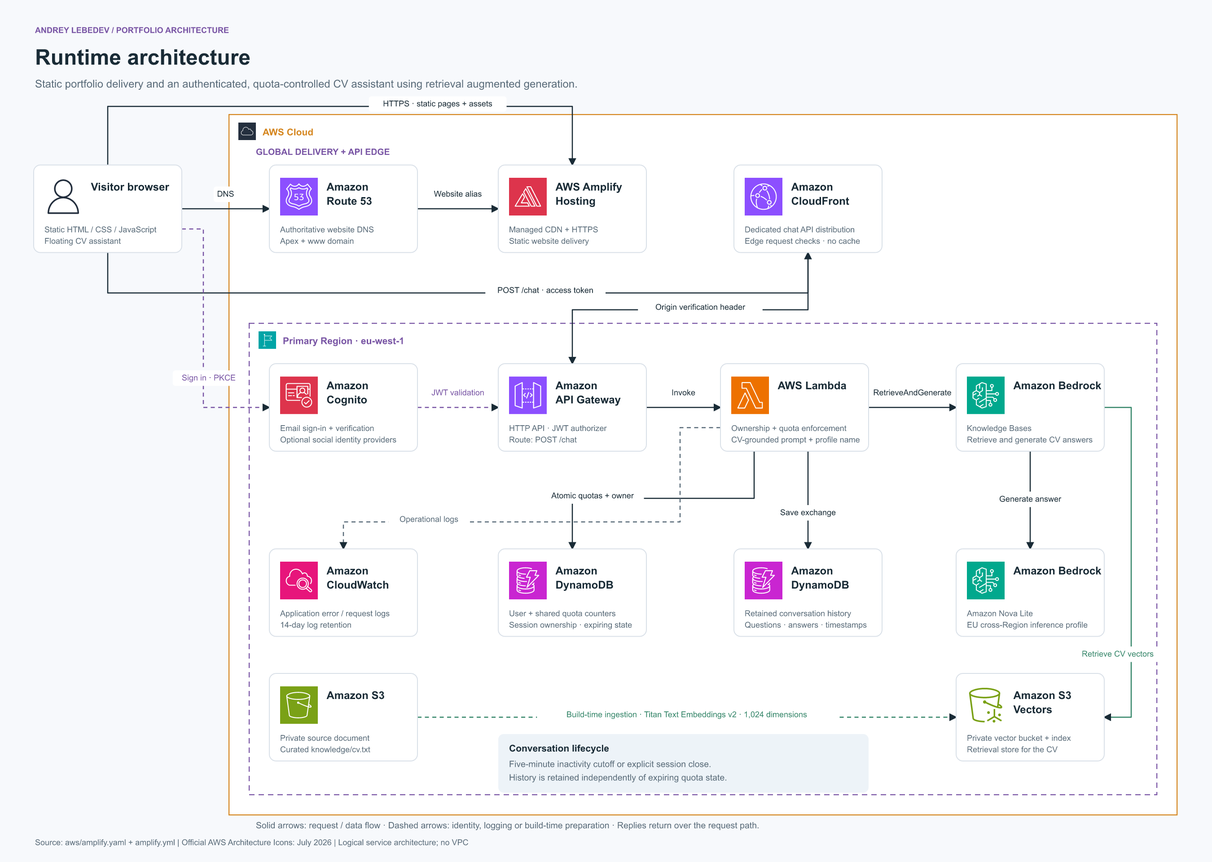
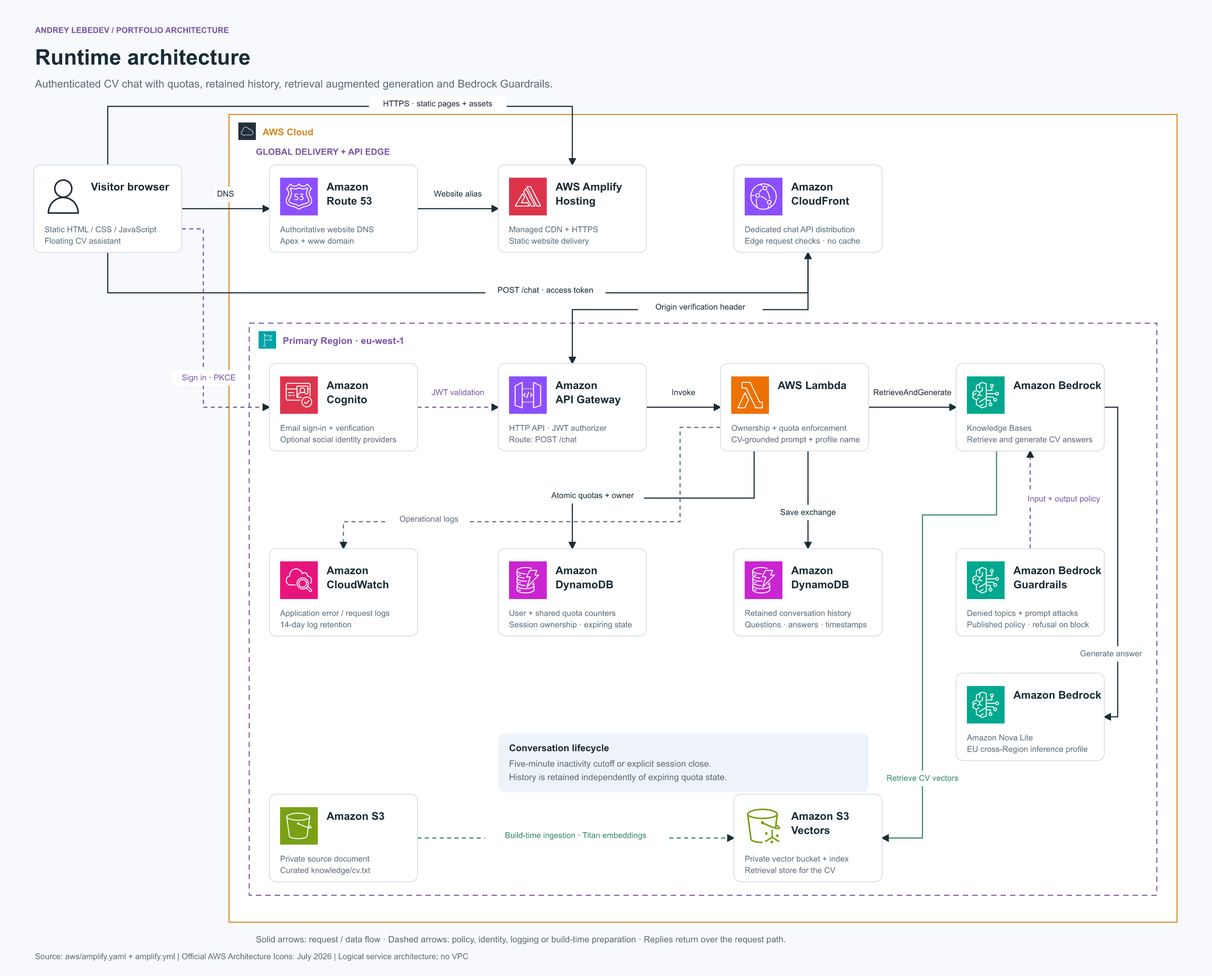
Add Bedrock Guardrails to constrain portfolio chat scope

diff --git a/behind-the-site.html b/behind-the-site.html
@@ -48,14 +48,14 @@
 <section class="page-section page-section-soft" id="runtime"><div class="wrap">
 <div class="split-head"><div><div class="eyebrow">02 / RUNTIME ARCHITECTURE</div><h2>From a visitor's question to a grounded answer.</h2></div><p>The static website and chat API have separate delivery paths. The application runs primarily in Ireland (eu-west-1); Nova Lite uses an EU cross-Region inference profile.</p></div>
 <figure class="architecture-figure">
-<a href="assets/architecture/runtime.svg" target="_blank" rel="noopener" aria-label="Open runtime architecture diagram at full size in a new tab"><img src="assets/architecture/runtime.svg" width="1800" height="1280" loading="lazy" alt="Runtime: Amplify serves the website; Cognito authenticates visitors. Chat requests pass through CloudFront, API Gateway and Lambda, which check DynamoDB quotas and session ownership. Bedrock retrieves CV evidence from S3 Vectors and generates a Nova Lite answer. Exchanges are stored in a separate DynamoDB history table."/></a>
+<a href="assets/architecture/runtime.svg" target="_blank" rel="noopener" aria-label="Open runtime architecture diagram at full size in a new tab"><img src="assets/architecture/runtime.svg" width="1800" height="1450" loading="lazy" alt="Runtime: Amplify serves the website; Cognito authenticates visitors. Chat requests pass through CloudFront, API Gateway and Lambda, which check DynamoDB quotas and session ownership. Bedrock Guardrails applies the published input and output policy. Bedrock retrieves CV evidence from S3 Vectors and generates a Nova Lite answer. Exchanges are stored in a separate DynamoDB history table."/></a>
 <figcaption><span>Solid arrows show request and data flow; dashed arrows show supporting flows.</span><span class="architecture-downloads"><a href="assets/architecture/runtime.svg" download>Download SVG</a><a href="assets/architecture/runtime.png" download>Download PNG</a></span></figcaption>
 </figure>
 <ol class="architecture-steps">
 <li><h3>Load the website and sign in</h3><p>Route 53 resolves the website domain and Amplify Hosting delivers static content over HTTPS. The first chat question prompts sign-in through Cognito's authorization-code flow with PKCE. Email registration includes verification; social providers are optional integrations.</p></li>
 <li><h3>Authorize and enforce allowances</h3><p>The browser sends its access token to the chat CloudFront distribution. Edge checks restrict paths, methods and origins; API Gateway validates the JWT. Lambda checks the private origin token, conversation ownership and atomic DynamoDB quota counters before inference.</p></li>
-<li><h3>Retrieve evidence and generate</h3><p>Lambda calls Bedrock's RetrieveAndGenerate operation. The knowledge base retrieves relevant CV passages from S3 Vectors and supplies them to Amazon Nova Lite. The prompt limits answers to supported experience and can address the visitor using a sanitized name from Cognito.</p></li>
-<li><h3>Save and return the exchange</h3><p>Lambda saves the question, answer and timestamps in the history table and returns the answer over the same request path. Follow-up questions reuse the Bedrock session until five minutes of inactivity or an explicit session close starts a new conversation.</p></li>
+<li><h3>Retrieve evidence and generate</h3><p>Lambda calls Bedrock's RetrieveAndGenerate operation. Every request includes a numbered Bedrock Guardrail version. Denied topics filter programming deliverables, command tutorials and unrelated tasks on input and output; a prompt-attack filter checks attempts to override the assistant’s role. The knowledge base retrieves CV passages from S3 Vectors for Amazon Nova Lite. The prompt limits answers to supported experience and can address the visitor using a sanitized name from Cognito.</p></li>
+<li><h3>Save and return the exchange</h3><p>Lambda saves the question, answer and timestamps in the history table and returns the answer over the same request path. A guardrail intervention produces a fixed scope refusal, which is saved instead of a model completion; source excerpts are omitted. Follow-up questions reuse the Bedrock session until five minutes of inactivity or an explicit session close starts a new conversation.</p></li>
 </ol>
 </div></section>
 <section class="page-section" id="data-security"><div class="wrap">
@@ -63,6 +63,7 @@
 <div class="architecture-table-wrap"><table class="architecture-table"><thead><tr><th scope="col">Component</th><th scope="col">Responsibility and data</th><th scope="col">Lifecycle / boundary</th></tr></thead><tbody>
 <tr><td>GitHub + CloudFormation</td><td>Versioned static source, curated CV and infrastructure definition. Provider credentials remain in Secrets Manager.</td><td>Infrastructure updates are explicit; source pushes trigger Amplify application builds.</td></tr>
 <tr><td>S3 + S3 Vectors</td><td>A private source bucket contains the text CV; a separate vector bucket and index contain its embeddings.</td><td>Encrypted storage. Knowledge ingestion reads only the CV prefix; template uploads use a separate prefix.</td></tr>
+<tr><td>Bedrock Guardrails</td><td>A stack-managed, versioned policy checks inputs and outputs for denied topics and inputs for prompt attacks. The assistant can discuss my technical background, but is not a coding tutor.</td><td>Attached to every knowledge-base generation request. Missing configuration or service errors fail closed. Managed classification is probabilistic, and guardrail evaluations add usage charges.</td></tr>
 <tr><td>Cognito</td><td>Account identity, verified email and available profile attributes. Lambda reads the profile through the authenticated userInfo endpoint.</td><td>Access tokens are short-lived and stored in the browser tab's session storage. Tokens are excluded from conversation history.</td></tr>
 <tr><td>DynamoDB state</td><td>Per-user limits of 10 questions per minute and 100 per UTC day; shared limits of 1,000 per UTC day and 10,000 per UTC month. Session records associate conversations with an owner. User-specific records include the verified, normalized email as a separate attribute.</td><td>Conditional transactions enforce the allowances. TTL removes old counters and session state; normalized verified mailbox hashes identify user quota records.</td></tr>
 <tr><td>DynamoDB history</td><td>Questions, answers, timestamps and conversation summaries linked to the Cognito user ID, with the verified, normalized email on each record. Individual exchanges avoid an ever-growing transcript item.</td><td>No automatic history expiry. Point-in-time recovery is enabled; the table is retained on stack deletion. Browser closure is best effort, backed by a five-minute inactivity deadline.</td></tr>
@@ -71,7 +72,7 @@
 <div class="architecture-summary">
 <article><span class="eyebrow accent">API PERIMETER</span><h3>Layers of verification</h3><p>CloudFront checks request shape, API Gateway validates identity, and Lambda verifies the origin token and ownership. CORS is a browser restriction; authentication is enforced separately. API responses are not cached.</p></article>
 <article><span class="eyebrow accent">COST CONTROL</span><h3>Limits before inference</h3><p>User and global allowances are consumed atomically before Bedrock runs. API throttling and a 600-token answer limit further bound model use. These controls do not impose a hard cap on total AWS charges; the site has no WAF web ACL.</p></article>
-<article><span class="eyebrow accent">MODEL BOUNDARY</span><h3>Reviewed knowledge first</h3><p>The model receives retrieved CV evidence, the question and an optional display name. Grounding reduces unsupported answers but does not guarantee accuracy. The recruiter-specific CV tool remains a demonstration.</p></article>
+<article><span class="eyebrow accent">MODEL BOUNDARY</span><h3>Reviewed knowledge first</h3><p>The model receives retrieved CV evidence, the question and an optional display name. A strict scope prompt and versioned Bedrock Guardrails help keep replies on topic. Guardrails and grounding reduce unwanted responses but do not guarantee perfect classification or accuracy. The recruiter-specific CV tool remains a demonstration.</p></article>
 </div>
 <p class="architecture-source">Source repository: <a href="https://github.com/Andremoniy/Andremoniy.lu" target="_blank" rel="noopener noreferrer">Andremoniy/Andremoniy.lu ↗</a>. The diagrams are stored as scalable SVG files with PNG exports; service icons are embedded so the SVGs remain portable.</p>
 </div></section>

diff --git a/privacy.html b/privacy.html
@@ -35,7 +35,7 @@
 <section id="data"><h2>2. What data is used, and why?</h2>
 <h3>Browsing the portfolio</h3><p>Public pages do not require an account. Hosting and network services process technical request information, such as your IP address, browser information, requested URL and request time, to deliver the website and protect it from misuse.</p>
 <h3>Creating an account and signing in</h3><p>Amazon Cognito handles registration, email verification and authentication. Account information includes your email address, an account identifier and any profile name you supply. Cognito manages credentials; the website’s chat database does not store your password or access token. An account is required to use the assistant, but not to browse the portfolio.</p>
-<h3>Using the CV assistant</h3><p>The assistant processes your question, relevant CV passages and an optional sanitized display name to generate a reply through Amazon Bedrock. The application does not add your email address to the model prompt; anything you type into a question is part of that prompt.</p><p>Questions, answers, timestamps and conversation summaries are saved in DynamoDB and linked to your Cognito account ID. When Cognito supplies a verified email, it is saved as a separate attribute on user-specific records, in lowercase with any plus tag removed. Historical records can lack that attribute. This helps identify conversations when investigating problems or handling a request about your data.</p><p>Usage counters enforce per-user and shared chat limits. Verified mailbox hashes identify user quota keys; the normalized verified email is also stored on user-specific quota and session records. Shared quota counters do not contain a user email. Operational logs record service errors and request identifiers; the application does not intentionally write full chat transcripts to those logs.</p>
+<h3>Using the CV assistant</h3><p>The assistant processes your question, relevant CV passages and an optional sanitized display name to generate a reply through Amazon Bedrock. Bedrock Guardrails evaluates inputs and outputs to enforce the assistant’s topic and safety restrictions. The application does not add your email address to the model prompt; anything you type into a question is part of that prompt.</p><p>Questions, answers, timestamps and conversation summaries are saved in DynamoDB and linked to your Cognito account ID. When Cognito supplies a verified email, it is saved as a separate attribute on user-specific records, in lowercase with any plus tag removed. Historical records can lack that attribute. This helps identify conversations when investigating problems or handling a request about your data.</p><p>Usage counters enforce per-user and shared chat limits. Verified mailbox hashes identify user quota keys; the normalized verified email is also stored on user-specific quota and session records. Shared quota counters do not contain a user email. Operational logs record service errors and request identifiers; the application does not intentionally write full chat transcripts to those logs.</p>
 <h3>Purposes and legal basis</h3><p>The processing above is based on legitimate interests under Article 6(1)(f) GDPR: operating a professional portfolio, providing the optional assistant, managing accounts, preventing abuse and excessive costs, and investigating service problems. Retained conversations support troubleshooting and review of the assistant’s responses. You may object to processing based on legitimate interests, as explained below.</p><p>The site does not use your data for advertising or sell your chat history. The assistant generates informational replies about my experience; it does not make decisions about you with legal or similarly significant effects.</p>
 </section>
 <section id="cookies"><h2>3. Cookies and browser storage</h2><p>The website uses browser storage needed for the sign-in feature you choose to use. Luxembourg’s CNPD distinguishes strictly necessary authentication and security storage from non-essential tracking that requires consent. <a href="https://cnpd.public.lu/fr/dossiers-thematiques/cookies0/cookies/principes-applicables.html" target="_blank" rel="noopener noreferrer">Read the CNPD’s cookie guidance ↗</a>.</p>

diff --git a/tests/test_chat.py b/tests/test_chat.py
@@ -46,6 +46,8 @@ class ChatTests(unittest.TestCase):
             'ALLOWED_ORIGINS': 'https://example.com',
             'KNOWLEDGE_BASE_ID': 'KB12345678',
             'MODEL_ARN': 'model',
+            'GUARDRAIL_ID': 'cv-scope-guardrail',
+            'GUARDRAIL_VERSION': '1',
             'AUTH_CLIENT_ID': 'chat-client',
             'AUTH_DOMAIN': 'https://login.example.com',
             'CHAT_STATE_TABLE': 'chat-state',
@@ -133,6 +135,77 @@ class ChatTests(unittest.TestCase):
         response = self.request({'message': 'AWS?'})
         self.assertEqual(429, response['statusCode'])
         self.assertNotIn('private internal details', response['body'])
+
+    def test_every_generation_uses_the_published_guardrail(self):
+        for question in ('Write me a hello world in python', 'Explain git reset', 'Has Andrey used Python?', 'Which teams did he lead?'):
+            request = self.handler_module.build_retrieval_request(question, None)
+            configuration = request['retrieveAndGenerateConfiguration']['knowledgeBaseConfiguration']['generationConfiguration']
+            self.assertEqual({'guardrailId': 'cv-scope-guardrail', 'guardrailVersion': '1'}, configuration['guardrailConfiguration'])
+            self.assertIn('Never fulfill requests to write, edit or debug code', configuration['promptTemplate']['textPromptTemplate'])
+            self.assertIn('Short follow-up questions', configuration['promptTemplate']['textPromptTemplate'])
+
+    def test_guardrail_intervention_returns_and_saves_only_the_refusal(self):
+        for question in ('Write me a hello world in python', 'Explain git reset'):
+            self.bedrock_client.retrieve_and_generate.return_value = {
+                'output': {'text': 'unsafe completion that must not be returned'},
+                'sessionId': 'session-123', 'guardrailAction': 'INTERVENED',
+                'citations': [{'retrievedReferences': [{'content': {'text': 'unrelated evidence'}}]}]}
+            response = self.request({'message': question})
+            self.assertEqual(200, response['statusCode'])
+            body = json.loads(response['body'])
+            self.assertEqual(self.handler_module.SCOPE_REFUSAL, body['answer'])
+            self.assertEqual([], body['sources'])
+            turn = self.state_client.transact_write_items.call_args.kwargs['TransactItems'][2]['Put']['Item']
+            self.assertEqual(self.handler_module.SCOPE_REFUSAL, turn['answer']['S'])
+
+    def test_guardrail_configuration_cannot_be_overridden_by_the_client(self):
+        self.bedrock_client.retrieve_and_generate.return_value = {
+            'output': {'text': 'Career answer'}, 'sessionId': 'session-123', 'guardrailAction': 'NONE'}
+        response = self.request({'message': 'Leadership?', 'guardrailConfiguration': {}, 'guardrailVersion': 'DRAFT'})
+        self.assertEqual(200, response['statusCode'])
+        request = self.bedrock_client.retrieve_and_generate.call_args.kwargs
+        configuration = request['retrieveAndGenerateConfiguration']['knowledgeBaseConfiguration']['generationConfiguration']
+        self.assertEqual('1', configuration['guardrailConfiguration']['guardrailVersion'])
+
+    def test_missing_guardrail_configuration_fails_closed(self):
+        with patch.dict(os.environ):
+            del os.environ['GUARDRAIL_ID']
+            self.assertEqual(503, self.request({'message': 'Leadership?'})['statusCode'])
+        for invalid_configuration in ({'GUARDRAIL_ID': ''}, {'GUARDRAIL_VERSION': 'DRAFT'}):
+            with patch.dict(os.environ, invalid_configuration):
+                self.assertEqual(503, self.request({'message': 'Leadership?'})['statusCode'])
+        self.bedrock_client.retrieve_and_generate.assert_not_called()
+
+    def test_guardrail_policy_and_permissions_are_provisioned(self):
+        resources = CLOUDFORMATION_TEMPLATE['Resources']
+        policy = resources['ChatGuardrail']['Properties']
+        topics = policy['TopicPolicyConfig']['TopicsConfig']
+        self.assertIn('Write me a hello world in python', topics[0]['Examples'])
+        for topic in topics:
+            self.assertTrue(topic['InputEnabled'])
+            self.assertTrue(topic['OutputEnabled'])
+            self.assertEqual('BLOCK', topic['InputAction'])
+            self.assertEqual('BLOCK', topic['OutputAction'])
+        filters = policy['ContentPolicyConfig']['FiltersConfig']
+        attack_filter = next(content_filter for content_filter in filters if content_filter['Type'] == 'PROMPT_ATTACK')
+        self.assertEqual('HIGH', attack_filter['InputStrength'])
+        self.assertTrue(attack_filter['InputEnabled'])
+        self.assertEqual('BLOCK', attack_filter['InputAction'])
+        self.assertFalse(attack_filter['OutputEnabled'])
+        self.assertEqual(self.handler_module.SCOPE_REFUSAL, policy['BlockedInputMessaging'])
+        self.assertEqual(self.handler_module.SCOPE_REFUSAL, policy['BlockedOutputsMessaging'])
+        self.assertEqual('AWS::Bedrock::GuardrailVersion', resources['ChatGuardrailVersion']['Type'])
+        statements = resources['ChatRole']['Properties']['Policies'][0]['PolicyDocument']['Statement']
+        permission = next(statement for statement in statements if statement.get('Action') == 'bedrock:ApplyGuardrail')
+        self.assertEqual({'GetAtt': 'ChatGuardrail.GuardrailArn'}, permission['Resource'])
+
+    def test_guardrail_service_failure_does_not_retry_without_protection(self):
+        self.bedrock_client.retrieve_and_generate.side_effect = ClientError(
+            {'Error': {'Code': 'AccessDeniedException', 'Message': 'Guardrail access denied'}},
+            'RetrieveAndGenerate')
+        self.assertEqual(503, self.request({'message': 'Leadership?'})['statusCode'])
+        self.bedrock_client.retrieve_and_generate.assert_called_once()
+        self.assertEqual(1, self.state_client.transact_write_items.call_count)
 
     def test_bedrock_diagnostics_stay_in_server_logs(self):
         self.bedrock_client.retrieve_and_generate.side_effect = ClientError(

diff --git a/scripts/build_architecture_diagrams.py b/scripts/build_architecture_diagrams.py
@@ -107,7 +107,7 @@ def build_deployment_diagram():
     diagram.card(50, 235, 'Local machine', 'aws/amplify.yaml|Authenticated AWS CLI', 'user')
     diagram.card(380, 235, 'Amazon S3', 'Private template upload|cloudformation/ prefix', 's3')
     diagram.card(730, 235, 'AWS|CloudFormation', 'Change set + IAM capability|Parameters preserved on update', 'cloudformation')
-    diagram.card(1090, 235, 'Stack-managed|AWS resources', 'Amplify · DNS · IAM · Cognito|API · Lambda · data · Bedrock', 'cloud', width=400)
+    diagram.card(1090, 235, 'Stack-managed|AWS resources', 'Amplify · DNS · IAM · Cognito|API · Lambda · data · Bedrock + Guardrails', 'cloud', width=400)
     diagram.card(730, 400, 'AWS Secrets|Manager', 'GitHub connection token|Resolved during stack deployment', 'secrets', height=120)
     diagram.card(50, 560, 'GitHub', 'main branch|HTML · assets · CV · templates', tag='Git')
     diagram.card(380, 560, 'AWS Amplify', 'Connected production branch|Automatic builds enabled', 'amplify')
@@ -124,10 +124,10 @@ def build_deployment_diagram():
 
 
 def build_runtime_diagram():
-    diagram = Diagram('Runtime architecture', 'Static portfolio delivery and an authenticated, quota-controlled CV assistant using retrieval augmented generation.', 1800, 1280)
-    diagram.boundary(340, 170, 1408, 1040, 'AWS Cloud')
+    diagram = Diagram('Runtime architecture', 'Authenticated CV chat with quotas, retained history, retrieval augmented generation and Bedrock Guardrails.', 1800, 1450)
+    diagram.boundary(340, 170, 1408, 1200, 'AWS Cloud')
     diagram.text(380, 230, 'GLOBAL DELIVERY + API EDGE', 13, PURPLE, 700)
-    diagram.boundary(370, 480, 1348, 700, 'Primary Region · eu-west-1', 'region', PURPLE, True)
+    diagram.boundary(370, 480, 1348, 850, 'Primary Region · eu-west-1', 'region', PURPLE, True)
     diagram.arrow([(270, 310), (400, 310)], 'DNS', (335, 292))
     diagram.arrow([(620, 310), (740, 310)], 'Website alias', (680, 292))
     diagram.arrow([(160, 245), (160, 158), (850, 158), (850, 245)], 'HTTPS · static pages + assets', (650, 158))
@@ -141,10 +141,12 @@ def build_runtime_diagram():
     diagram.arrow([(1200, 670), (1200, 815)], 'Save exchange', (1200, 765))
     diagram.arrow([(1070, 635), (1010, 635), (1010, 775), (510, 775), (510, 815)], color=MUTED, dashed=True)
     diagram.label(637, 775, 'Operational logs', MUTED)
-    diagram.arrow([(1530, 670), (1530, 815)], 'Generate answer', (1530, 745))
-    diagram.arrow([(1640, 605), (1680, 605), (1680, 1065), (1640, 1065)], color=GREEN)
-    diagram.label(1660, 975, 'Retrieve CV vectors', GREEN)
-    diagram.arrow([(620, 1065), (1420, 1065)], 'Build-time ingestion · Titan Text Embeddings v2 · 1,024 dimensions', (1020, 1065), GREEN, True)
+    diagram.arrow([(1530, 815), (1530, 670)], 'Input + output policy', (1580, 745), PURPLE, True)
+    diagram.arrow([(1640, 605), (1660, 605), (1660, 1065), (1640, 1065)], color=INK)
+    diagram.label(1650, 975, 'Generate answer')
+    diagram.arrow([(1480, 670), (1480, 765), (1370, 765), (1370, 1245), (1310, 1245)], color=GREEN)
+    diagram.label(1370, 1160, 'Retrieve CV vectors', GREEN)
+    diagram.arrow([(620, 1245), (1090, 1245)], 'Build-time ingestion · Titan embeddings', (855, 1245), GREEN, True)
     diagram.card(50, 245, 'Visitor browser', 'Static HTML / CSS / JavaScript|Floating CV assistant', 'user')
     diagram.card(400, 245, 'Amazon|Route 53', 'Authoritative website DNS|Apex + www domain', 'route53')
     diagram.card(740, 245, 'AWS Amplify|Hosting', 'Managed CDN + HTTPS|Static website delivery', 'amplify')
@@ -156,11 +158,12 @@ def build_runtime_diagram():
     diagram.card(400, 815, 'Amazon|CloudWatch', 'Application error / request logs|14-day log retention', 'cloudwatch')
     diagram.card(740, 815, 'Amazon|DynamoDB', 'User + shared quota counters|Session ownership · expiring state', 'dynamodb')
     diagram.card(1090, 815, 'Amazon|DynamoDB', 'Retained conversation history|Questions · answers · timestamps', 'dynamodb')
-    diagram.card(1420, 815, 'Amazon Bedrock', 'Amazon Nova Lite|EU cross-Region inference profile', 'bedrock')
-    diagram.card(400, 1000, 'Amazon S3', 'Private source document|Curated knowledge/cv.txt', 's3')
-    diagram.card(1420, 1000, 'Amazon S3|Vectors', 'Private vector bucket + index|Retrieval store for the CV', 'vectors')
+    diagram.card(1420, 815, 'Amazon Bedrock|Guardrails', 'Denied topics + prompt attacks|Published policy · refusal on block', 'bedrock')
+    diagram.card(1420, 1000, 'Amazon Bedrock', 'Amazon Nova Lite|EU cross-Region inference profile', 'bedrock')
+    diagram.card(400, 1180, 'Amazon S3', 'Private source document|Curated knowledge/cv.txt', 's3')
+    diagram.card(1090, 1180, 'Amazon S3|Vectors', 'Private vector bucket + index|Retrieval store for the CV', 'vectors')
     diagram.note(740, 1090, 550, 'Conversation lifecycle', ['Five-minute inactivity cutoff or explicit session close.', 'History is retained independently of expiring quota state.'])
-    diagram.text(380, 1230, 'Solid arrows: request / data flow · Dashed arrows: identity, logging or build-time preparation · Replies return over the request path.', 13, MUTED)
+    diagram.text(380, 1400, 'Solid arrows: request / data flow · Dashed arrows: policy, identity, logging or build-time preparation · Replies return over the request path.', 13, MUTED)
     diagram.save('runtime.svg')
 
 

diff --git a/aws/README.md b/aws/README.md
@@ -57,6 +57,30 @@ replacement. Retained resources continue to incur storage charges. Request
 throttling is not a monthly spending cap. Knowledge ingestion precedes static
 publication, so failed releases do not atomically restore previous CV content.
 
+## CV assistant scope and Bedrock Guardrails
+
+CloudFormation provisions `ChatGuardrail` and a numbered `ChatGuardrailVersion`.
+Lambda attaches that ID and version to every `RetrieveAndGenerate` request and
+has `bedrock:ApplyGuardrail` permission scoped to that guardrail. Missing, empty
+or draft configuration prevents generation; there is no unguarded retry path.
+
+Denied topics apply to prompts and responses: programming deliverables and
+tutorials (including Python code and Git commands), general knowledge and creative
+tasks, and personalized medical, legal or financial advice. A high-strength input
+prompt-attack filter supplements the CV-only generation prompt. Biographical
+questions about technologies, leadership, qualifications and projects remain
+in scope. Detection is probabilistic; offline tests verify configuration and
+intervention handling, rather than managed-service classification quality.
+
+When Bedrock reports `INTERVENED`, Lambda returns and stores the fixed portfolio
+scope refusal and omits source excerpts. Refused requests still consume the
+normal chat allowances. Guardrail evaluations are separately billable Bedrock
+usage. The `ChatGuardrailId` and `ChatGuardrailVersion` outputs identify the
+deployed policy. A policy revision requires a new immutable version; changing
+the version resource's Description forces CloudFormation to publish a replacement
+snapshot after the guardrail update. The runtime diagram shows this as an attached
+input/output policy, rather than a separate network proxy.
+
 ## Authentication and per-user quotas
 
 The first submitted question is held in the browser until the visitor signs in.

diff --git a/README.md b/README.md
@@ -11,6 +11,16 @@ question automatically. Cognito supports email accounts and optional Google,
 Facebook/Meta, Apple, Amazon and Microsoft identities. Provider registrations
 and Secrets Manager credentials determine which social options are enabled.
 
+A versioned Amazon Bedrock Guardrail is attached to every knowledge-base
+generation request. Denied topics cover programming deliverables and tutorials,
+general-purpose tasks and personalized professional advice, with input and output
+blocking and a high-strength prompt-attack filter. The generation prompt limits
+the assistant to Andrey's background and portfolio; questions about his technical
+experience remain in scope. Guardrail interventions return and store a fixed
+scope refusal without source excerpts. Guardrail failures do not trigger an
+unguarded retry. Managed filtering is probabilistic and requires live validation
+after deployment; guardrail evaluations incur additional Bedrock usage charges.
+
 CloudFront fronts the API, rejects unsupported requests at the edge and forwards
 authorized chat requests without caching. The API requires a Cognito access token
 and a private CloudFront origin token. DynamoDB enforces per-user quotas of
